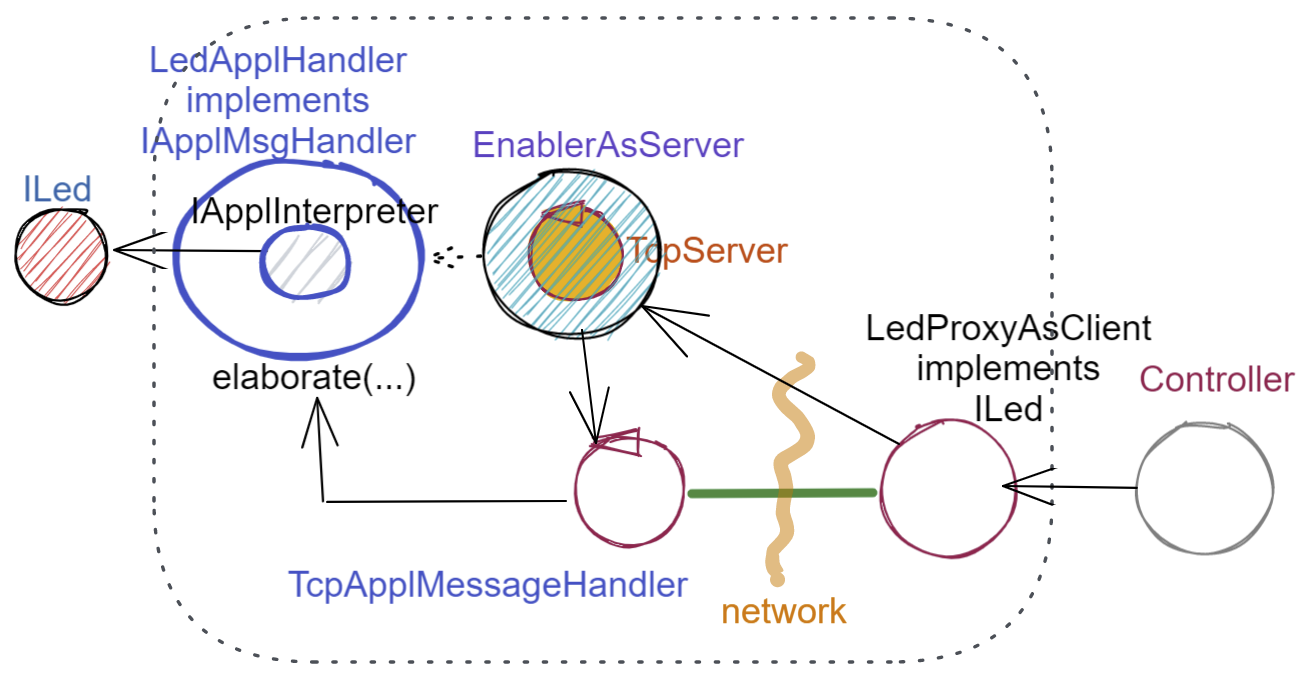
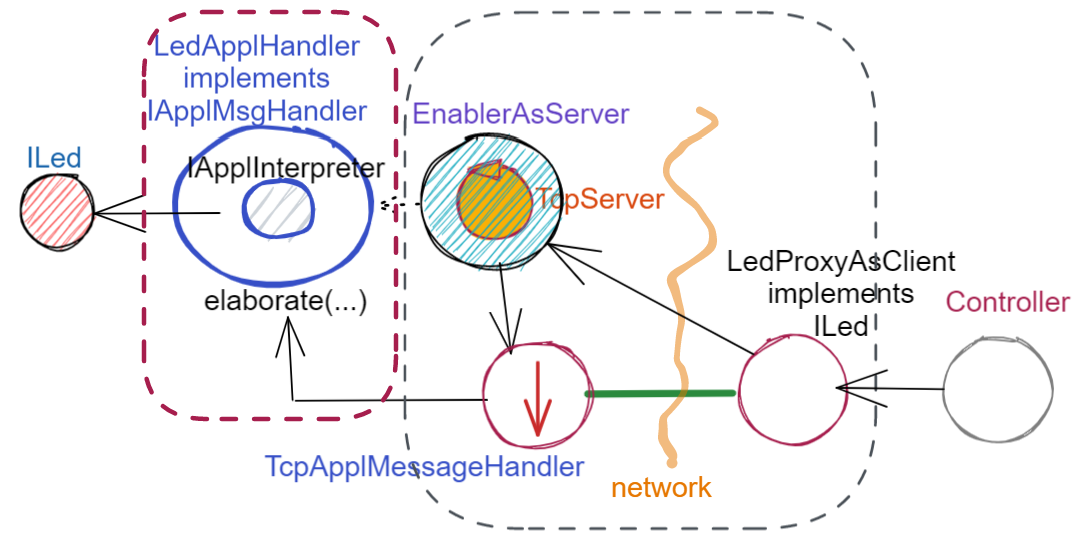
enablersEcontesti

diff --git a/it.unibo.radarSystem22/test/it/unibo/radarSystem22/sprint3/TestEnablersTcp.java b/it.unibo.radarSystem22/test/it/unibo/radarSystem22/sprint3/TestEnablersTcp.java
@@ -1,0 +1,101 @@
+package it.unibo.radarSystem22.sprint3;
+
+import static org.junit.Assert.assertTrue;
+
+import org.junit.After;
+import org.junit.Before;
+import org.junit.Test;
+
+import it.unibo.comm2022.ProtocolType;
+import it.unibo.comm2022.enablers.EnablerAsServer;
+import it.unibo.comm2022.proxy.ProxyAsClient;
+import it.unibo.comm2022.utils.BasicUtils;
+import it.unibo.radarSystem22.domain.interfaces.ILed;
+import it.unibo.radarSystem22.domain.interfaces.ISonar;
+import it.unibo.radarSystem22.domain.utils.DomainSystemConfig;
+import it.unibo.radarSystem22.sprint1.RadarSystemConfig;
+import it.unibo.radarSystem22.sprint2a.proxy.LedProxyAsClient;
+import it.unibo.radarSystem22.sprint2a.proxy.SonarProxyAsClient;
+import it.unibo.radarSystem22.sprint3.handlers.LedApplHandler;
+import it.unibo.radarSystem22.sprint3.handlers.SonarApplHandler;
+import it.unibo.radarSystem22.domain.DeviceFactory;
+
+public class TestEnablersTcp {
+	private ISonar sonar;
+	private ILed  led ;
+	private EnablerAsServer sonarServer, ledServer;
+	private ISonar sonarPxy;
+	private ILed ledPxy;
+	
+	@Before
+	public void setup() {
+ 	  DomainSystemConfig.simulation = true;
+ 	  DomainSystemConfig.ledGui     = true;
+ 	  RadarSystemConfig.ledPort     = 8015;
+ 	  RadarSystemConfig.sonarPort   = 8011;
+	  RadarSystemConfig.DLIMIT      = 70;
+	  DomainSystemConfig.sonarDelay = 100;
+//	  RadarSystemConfig.testing    = false;
+//	  RadarSystemConfig.tracing    = false;
+
+	  ProtocolType protocol = ProtocolType.tcp;
+	  //I devices
+	  sonar   = DeviceFactory.createSonar();
+	  led     = DeviceFactory.createLed();
+
+	  //I server
+	  sonarServer = new EnablerAsServer("sonarSrv",
+	              RadarSystemConfig.sonarPort,
+	              protocol, new SonarApplHandler("sonarH", sonar) );
+	  ledServer   = new EnablerAsServer("ledSrv",
+	              RadarSystemConfig.ledPort,
+	              protocol, new LedApplHandler("ledH", led)  );
+
+	  //I proxy
+	  sonarPxy = new SonarProxyAsClient( "sonarPxy", "localhost",
+	            ""+RadarSystemConfig.sonarPort, protocol );
+	  ledPxy   = new LedProxyAsClient( "ledPxy",   "localhost",
+	           ""+RadarSystemConfig.ledPort,   protocol );
+	}
+
+	@After
+	public void down() {
+	  ledServer.stop();
+	  sonarServer.stop();
+	}
+	
+	@Test
+    public void testEnablers() {
+
+       sonarServer.start();
+       ledServer.start();
+       System.out.println(" ==================== testEnablers "  );
+
+       //Simulo il Controller
+       BasicUtils.delay(500);
+
+       //Attivo il sonar
+       sonarPxy.activate();
+
+       for( int i=1; i<=30; i++ ) {
+    	   int v = sonarPxy.getDistance().getVal();
+           System.out.println("testEnablers v=" + v);
+    	   BasicUtils.delay(DomainSystemConfig.sonarDelay);
+    	   if( v < RadarSystemConfig.DLIMIT ) {
+    		   ledPxy.turnOn();
+    		   boolean ledState = ledPxy.getState();
+    		   assertTrue( ledState );
+    	   } 
+    	   else {
+    		   	ledPxy.turnOff();
+    		   	boolean ledState = ledPxy.getState();
+    		   	assertTrue( ! ledState );
+    	   	}
+       }
+    }	
+	
+	
+	
+	
+	
+}

diff --git a/it.unibo.radarSystem22/src/it/unibo/radarSystem22/sprint3/handlers/SonarApplHandler.java b/it.unibo.radarSystem22/src/it/unibo/radarSystem22/sprint3/handlers/SonarApplHandler.java
@@ -1,0 +1,38 @@
+package it.unibo.radarSystem22.sprint3.handlers;
+
+ 
+import it.unibo.comm2022.ApplMsgHandler;
+import it.unibo.comm2022.interfaces.IApplMsgHandler;
+import it.unibo.comm2022.interfaces.Interaction2021;
+import it.unibo.radarSystem22.domain.interfaces.ISonar;
+import it.unibo.radarSystem22.domain.utils.ColorsOut;
+import it.unibo.radarSystem22.sprint3.interpreters.IApplInterpreter;
+import it.unibo.radarSystem22.sprint3.interpreters.SonarApplInterpreter;
+ 
+
+public class SonarApplHandler extends ApplMsgHandler  {
+ 
+private IApplInterpreter sonarIntepr;
+
+public static IApplMsgHandler create(String name, ISonar sonar) {
+//	if( CommUtils.isCoap() ) {
+//		return new SonarResourceCoap("sonar",  new SonarApplInterpreter(sonar) );
+//	}else  
+		return new SonarApplHandler(name, sonar);
+	 
+}
+		public SonarApplHandler(String name, ISonar sonar) {
+			super(name);
+			sonarIntepr = new SonarApplInterpreter(sonar);
+			ColorsOut.out(name+ " | SonarApplHandler CREATED with sonar= " + sonar, ColorsOut.BLUE);
+	 	}
+ 
+ 		
+ 		@Override
+		public void elaborate(String message, Interaction2021 conn) {
+ 			ColorsOut.out(name+ " | elaborate " + message + " conn=" + conn, ColorsOut.BLUE);
+ 			if( message.equals("getDistance") || message.equals("isActive")  ) {
+ 				sendMsgToClient( sonarIntepr.elaborate(message), conn );
+   			}else sonarIntepr.elaborate(message);
+ 		}
+}

diff --git a/it.unibo.radarSystem22/src/it/unibo/radarSystem22/sprint3/handlers/LedApplHandler.java b/it.unibo.radarSystem22/src/it/unibo/radarSystem22/sprint3/handlers/LedApplHandler.java
@@ -1,0 +1,33 @@
+package it.unibo.radarSystem22.sprint3.handlers;
+
+import it.unibo.comm2022.ApplMsgHandler;
+import it.unibo.comm2022.interfaces.IApplMsgHandler;
+import it.unibo.comm2022.interfaces.Interaction2021;
+import it.unibo.radarSystem22.domain.interfaces.ILed;
+import it.unibo.radarSystem22.domain.utils.ColorsOut;
+import it.unibo.radarSystem22.sprint3.interpreters.IApplInterpreter;
+import it.unibo.radarSystem22.sprint3.interpreters.LedApplInterpreter;
+ 
+public class LedApplHandler extends ApplMsgHandler {
+private IApplInterpreter ledInterpr;
+
+	public static IApplMsgHandler create(String name, ILed led) {
+		return new LedApplHandler(name,led);
+	}
+ 
+	public LedApplHandler(String name, ILed led) {
+		super(name);
+		ledInterpr = new LedApplInterpreter(led) ;
+ 	}
+	
+
+ 	
+ 	@Override
+	public void elaborate(String message, Interaction2021 conn) {
+		ColorsOut.out(name + " | elaborate message=" + message + " conn=" + conn , ColorsOut.GREEN);
+ 		if( message.equals("getState") ) 
+ 			sendMsgToClient( ledInterpr.elaborate(message), conn );
+ 		else ledInterpr.elaborate(message);
+	}
+
+}

diff --git a/it.unibo.radarSystem22/src/it/unibo/radarSystem22/sprint3/interpreters/SonarApplInterpreter.java b/it.unibo.radarSystem22/src/it/unibo/radarSystem22/sprint3/interpreters/SonarApplInterpreter.java
@@ -1,0 +1,32 @@
+package it.unibo.radarSystem22.sprint3.interpreters;
+import it.unibo.radarSystem22.domain.interfaces.ISonar;
+import it.unibo.radarSystem22.domain.utils.ColorsOut;
+ 
+
+public class SonarApplInterpreter implements IApplInterpreter{
+private	ISonar sonar;
+
+	public SonarApplInterpreter(ISonar sonar) {
+		this.sonar = sonar;
+	}
+
+ 
+	@Override
+	public String elaborate(String message) {
+		ColorsOut.out("SonarApplInterpreter | elaborate " + message, ColorsOut.BLUE);
+			if( message.equals("getDistance")) {
+				//ColorsOut.out(name+ " | elaborate getDistance="  , ColorsOut.BLUE);
+				return ""+sonar.getDistance().getVal();
+ 			}else if( message.equals("activate")) {
+				ColorsOut.out("SonarApplInterpreter | activate sonar="+sonar , ColorsOut.BLUE);
+				sonar.activate();
+			}else if( message.equals("deactivate")) {
+				sonar.deactivate();
+			}else if( message.equals("isActive")) {
+				return ""+sonar.isActive();
+ 			}
+ 		return message+"_done";
+	}
+	
+
+}

diff --git a/it.unibo.radarSystem22/src/it/unibo/radarSystem22/sprint3/interpreters/LedApplInterpreter.java b/it.unibo.radarSystem22/src/it/unibo/radarSystem22/sprint3/interpreters/LedApplInterpreter.java
@@ -1,0 +1,26 @@
+package it.unibo.radarSystem22.sprint3.interpreters;
+
+ 
+import it.unibo.radarSystem22.domain.interfaces.ILed;
+import it.unibo.radarSystem22.domain.utils.ColorsOut;
+ 
+
+/*
+ * TODO: il Led dovrebbe essere injected con un metodo o una annotation
+ */
+public class LedApplInterpreter implements IApplInterpreter  {
+private ILed led;
+ 
+	public LedApplInterpreter(  ILed led) {
+ 		this.led = led;
+	}
+
+     
+ 	public String elaborate( String message ) {
+		ColorsOut.out("LedApplInterpreter | elaborate String=" + message  + " led="+led, ColorsOut.GREEN);
+	 		if( message.equals("getState") ) return ""+led.getState() ;
+	 		else if( message.equals("on")) led.turnOn();
+	 		else if( message.equals("off") ) led.turnOff();	
+ 		return message+"_done";
+	}
+}

diff --git a/it.unibo.radarSystem22/src/it/unibo/radarSystem22/sprint1/RadarSystemConfig.java b/it.unibo.radarSystem22/src/it/unibo/radarSystem22/sprint1/RadarSystemConfig.java
@@ -19,7 +19,7 @@ public class RadarSystemConfig {
  	public static String hostAddr         = "localhost";		
 	public static String raspAddr         = "localhost";		
 	public static int serverPort          = 8080;
-//Aggiunte dello SPRINT2a 	
+//Aggiunte dello SPRINT2a e 3
 	public static int ledPort             = 8010;
 	public static int sonarPort           = 8015;
 	

diff --git a/it.unibo.radarSystem22/src/it/unibo/radarSystem22/sprint3/interpreters/IApplInterpreter.java b/it.unibo.radarSystem22/src/it/unibo/radarSystem22/sprint3/interpreters/IApplInterpreter.java
@@ -1,0 +1,5 @@
+package it.unibo.radarSystem22.sprint3.interpreters;
+ 
+public interface IApplInterpreter {
+ 	public String elaborate( String message );
+}

diff --git a/it.unibo.issLabStart/userDocs/iss22/source/RadarSystemTcp.rst b/it.unibo.issLabStart/userDocs/iss22/source/RadarSystemTcp.rst
@@ -257,7 +257,7 @@ di informazione.
 .. _primoPrototipo: 
 
 ------------------------------------------
-Architettura del primo prototipo
+Architettura con contesto
 ------------------------------------------
 
 
@@ -267,7 +267,7 @@ e i dispositivi sul Raspberry, secondo l'architettura mostrata in figura:
 
 .. image:: ./_static/img/Radar/sysDistr1.PNG
    :align: center 
-   :width: 70%
+   :width: 80%
 
 I dispositivi sul Raspberry sono incapsulati in  handler che gestiscono i :ref:`Messaggi applicativi<messaggiAppl>` inviati 
 loro dal :ref:`TcpContextServer<TcpContextServer>`.
@@ -278,7 +278,7 @@ Si veda:
 - ``RadarSystemMainWithCtxOnPc`` : da attivare sul PC
  
 --------------------------------------------
-Deployoment del primo prototipo
+Deployoment del prototipo con contesto
 --------------------------------------------
 
 .. code:: 
@@ -314,7 +314,7 @@ prima del completamento della operazione.
     }
   }
   
-.. image:: ./_static/img/Radar/CounterWithDelay.PNG
+.. image:: ./_static/img/Radar/CounterDelayHandler.PNG
    :align: center  
    :width: 70%
 

diff --git a/it.unibo.issLabStart/userDocs/iss22Working/source/RadarSystemSupporti.rst b/it.unibo.issLabStart/userDocs/iss22Working/source/RadarSystemSupporti.rst
@@ -591,6 +591,8 @@ sendRequestOnConnection
 
 :remark:`Il ProxyAsClient così definito realizza request-response sincrone (bloccanti)`
 
+.. _testingProxy:
+
 ++++++++++++++++++++++++++++++++++++++++
 Testing del :ref:`ProxyAsClient`
 ++++++++++++++++++++++++++++++++++++++++
@@ -778,7 +780,12 @@ Il deployment della parte di sistema che gira sul RaspberryPi può avvenire seco
 riportati in :ref:`SPRINT1: Deployment su RaspberryPi`.
 
 
-.. _sprint2a:
+ 
+
+%%%%%%%%%%%%%%%%%%%%%%%%%%%%%%%%%%%%%%%%
+SPRINT2a 
+%%%%%%%%%%%%%%%%%%%%%%%%%%%%%%%%%%%%%%%%
+
 
 :worktodo:`WORKTODO: SPRINT2a - Controller sul PC`
 

diff --git a/it.unibo.issLabStart/userDocs/iss22Working/source/ContestiContenitori.rst b/it.unibo.issLabStart/userDocs/iss22Working/source/ContestiContenitori.rst
@@ -252,7 +252,7 @@ Verso gli attori
 +++++++++++++++++++++++++++++++++++++++++++++++++++++
 
 I componenti di tipo :ref:`IApplMsgHandler<IApplMsgHandler>` potrebbero essere realizzati come 
-enti attivi dotati di una coda di messaggi, denominati **attori**
+enti attivi dotati di una coda di messaggi, denominati **attori**:
 
 .. image:: ./_static/img/Architectures/ContestiEComponenti.PNG
    :align: center 

diff --git a/it.unibo.issLabStart/userDocs/iss22/source/RadarSystemSupporti.rst b/it.unibo.issLabStart/userDocs/iss22/source/RadarSystemSupporti.rst
@@ -780,7 +780,12 @@ Il deployment della parte di sistema che gira sul RaspberryPi può avvenire seco
 riportati in :ref:`SPRINT1: Deployment su RaspberryPi`.
 
 
-.. _sprint2a:
+ 
+
+%%%%%%%%%%%%%%%%%%%%%%%%%%%%%%%%%%%%%%%%
+SPRINT2a 
+%%%%%%%%%%%%%%%%%%%%%%%%%%%%%%%%%%%%%%%%
+
 
 :worktodo:`WORKTODO: SPRINT2a - Controller sul PC`
 

diff --git a/it.unibo.issLabStart/userDocs/iss22Working/source/index.rst b/it.unibo.issLabStart/userDocs/iss22Working/source/index.rst
@@ -17,6 +17,8 @@ iss22
    RadarSystemProdottiAnalisi
    RadarSystemProgetto
    RadarSystemSupporti
+   Enablers
+   ContestiContenitori
    RaspberrySoftware
    RaspBasicCode
 
